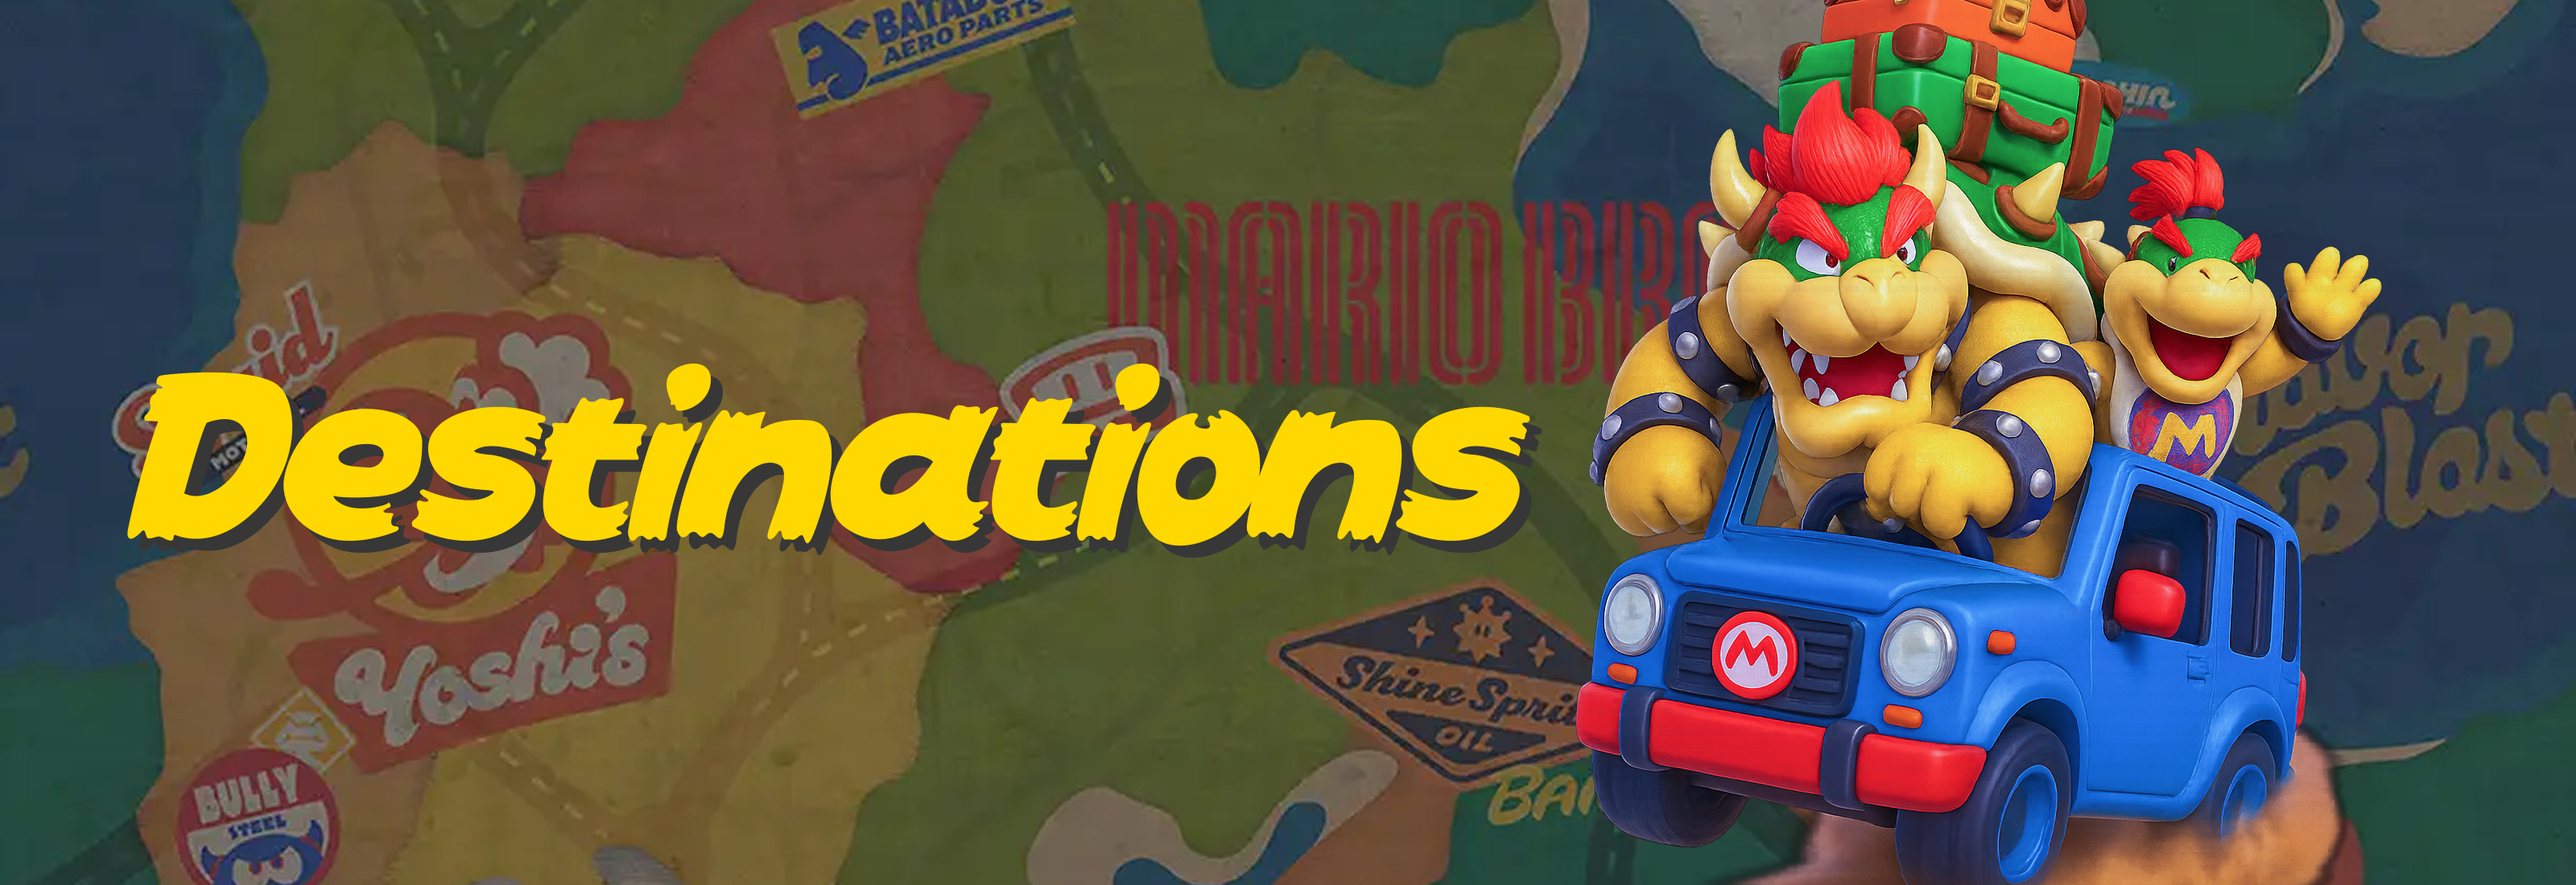
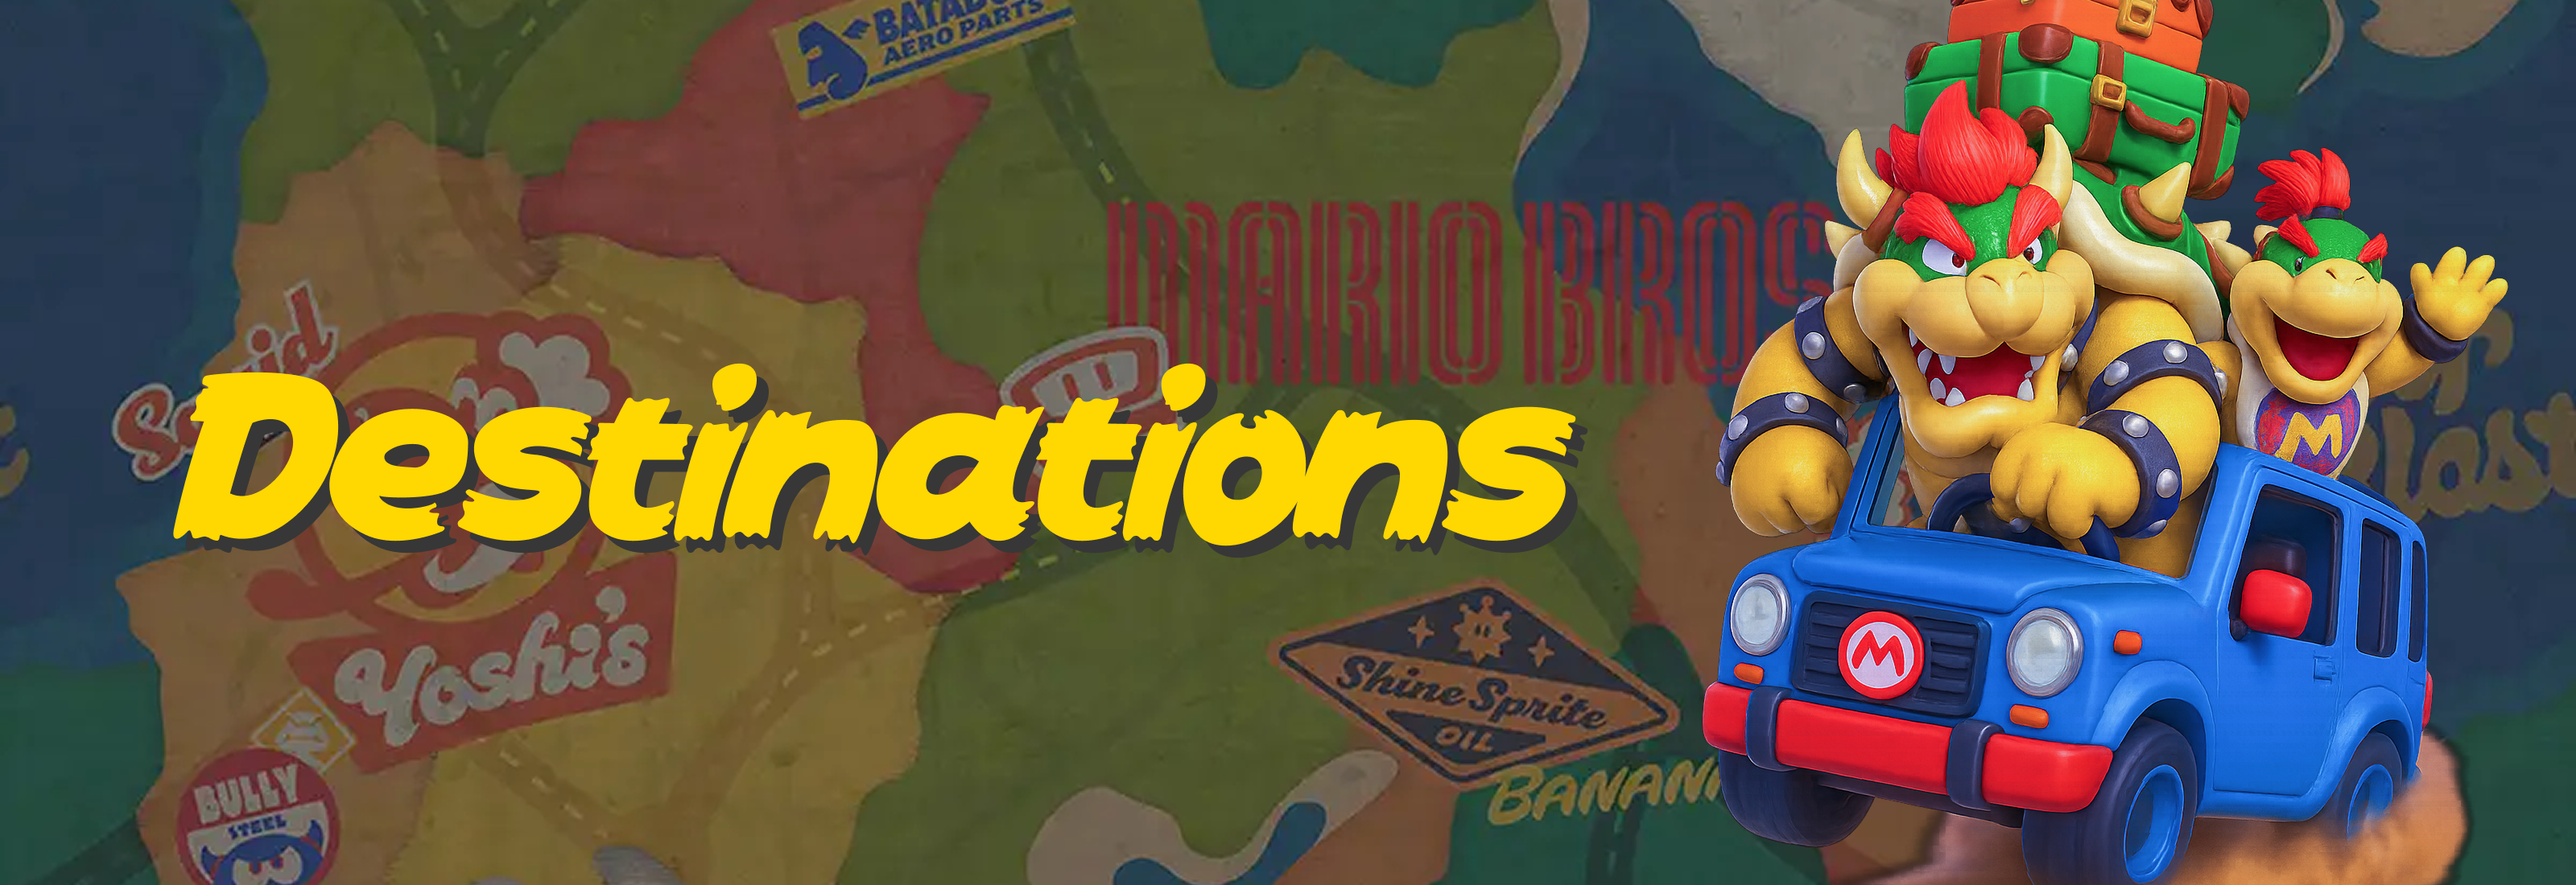
Add journey detail pages with title overlay
- Create journey detail page structure with [slug] routing
- Add JourneyDetailClient component based on DestinationDetailClient
- Display journey name and route as text overlay on title image
- Position text on left side with large fonts (96px title, 48px route)
- Add white drop shadow for better readability
- Include back button to return to journeys list
- Update page title images for journeys and destinations

🤖 Generated with [Claude Code](https://claude.com/claude-code)

diff --git a/app/journeys/[slug]/JourneyDetailClient.tsx b/app/journeys/[slug]/JourneyDetailClient.tsx
@@ -1,0 +1,222 @@
+'use client'
+
+import Link from 'next/link'
+import { useState } from 'react'
+import Box from '@mui/material/Box'
+import { Calendar, Train, ArrowLeft, MapPin } from 'lucide-react'
+import dynamic from 'next/dynamic'
+import Footer from 'src/components/Footer'
+import NavigationMenu from 'src/components/NavigationMenu'
+
+// Dynamically import the map component to avoid SSR issues
+const InteractiveMap = dynamic(() => import('src/components/InteractiveMap'), {
+  ssr: false,
+  loading: () => (
+    <div className="w-full h-[600px] rounded-lg bg-gray-200 flex items-center justify-center">
+      <p className="text-gray-600">Loading map...</p>
+    </div>
+  )
+})
+
+interface Journey {
+  name: string
+  slug: string
+  places: number
+  description: string
+  route: string
+  duration: string
+}
+
+interface JourneyDetailClientProps {
+  journey: Journey | undefined
+}
+
+export default function JourneyDetailClient({ journey }: JourneyDetailClientProps) {
+  const [isMenuOpen, setIsMenuOpen] = useState(false)
+  const [isMenuButtonVisible, setIsMenuButtonVisible] = useState(true)
+  const [isDrawerAnimating, setIsDrawerAnimating] = useState(false)
+  const [isMenuButtonAnimating, setIsMenuButtonAnimating] = useState(false)
+  const [currentImageIndex, setCurrentImageIndex] = useState(0)
+
+  const openMenu = () => {
+    setIsMenuButtonAnimating(true)
+    setTimeout(() => {
+      setIsMenuButtonVisible(false)
+      setIsMenuOpen(true)
+      setTimeout(() => {
+        setIsDrawerAnimating(false)
+      }, 50)
+    }, 150)
+  }
+
+  const closeMenu = () => {
+    setIsDrawerAnimating(true)
+    setTimeout(() => {
+      setIsMenuOpen(false)
+      setTimeout(() => {
+        setIsMenuButtonVisible(true)
+        setIsMenuButtonAnimating(true)
+        setTimeout(() => {
+          setIsMenuButtonAnimating(false)
+        }, 50)
+      }, 50)
+    }, 150)
+  }
+
+  if (!journey) {
+    return (
+      <div className="min-h-screen bg-gray-50 flex items-center justify-center">
+        <div className="text-center">
+          <h1 className="text-2xl font-bold text-gray-900 mb-4">Journey Not Found</h1>
+          <Link href="/journeys" className="text-blue-600 hover:text-blue-800">
+            Back to Journeys
+          </Link>
+        </div>
+      </div>
+    )
+  }
+
+  return (
+    <Box
+      className="min-h-screen"
+      sx={{
+        backgroundImage: 'url(/images/destinations/destination_page_list_background_shade.webp), url(/images/destinations/destination_page_list_background.webp)',
+        backgroundRepeat: 'repeat-y, repeat',
+        backgroundSize: '100% auto, 400px auto',
+      }}
+    >
+      <NavigationMenu
+        isMenuOpen={isMenuOpen}
+        isMenuButtonVisible={isMenuButtonVisible}
+        isDrawerAnimating={isDrawerAnimating}
+        isMenuButtonAnimating={isMenuButtonAnimating}
+        openMenu={openMenu}
+        closeMenu={closeMenu}
+      />
+
+      {/* Journey Details Page Title - Full Width with Text Overlay */}
+      <Box sx={{ position: 'relative', width: '100%' }}>
+        <img
+          src="/images/journey/journey_details_page_title.png"
+          alt="Journey Details"
+          className="w-full h-auto object-cover"
+        />
+
+        {/* Title and Route Overlay */}
+        <Box
+          sx={{
+            position: 'absolute',
+            top: '50%',
+            left: '15%',
+            transform: 'translateY(-50%)',
+            display: 'flex',
+            flexDirection: 'column',
+            gap: '0.5rem'
+          }}
+        >
+          <Box
+            component="h1"
+            sx={{
+              fontFamily: 'MarioFontTitle, sans-serif',
+              fontSize: '96px',
+              color: '#373737',
+              margin: 0,
+              textAlign: 'left',
+              textShadow: '4px 4px 0px rgba(246, 246, 246, 1)'
+            }}
+          >
+            {journey.name}
+          </Box>
+          <Box
+            component="p"
+            sx={{
+              fontFamily: 'MarioFontTitle, sans-serif',
+              fontSize: '48px',
+              color: '#373737',
+              margin: 0,
+              textAlign: 'left',
+              textShadow: '4px 4px 0px rgba(246, 246, 246, 1)'
+            }}
+          >
+            {journey.route}
+          </Box>
+        </Box>
+      </Box>
+
+      {/* Back Button */}
+      <Box
+        component={Link}
+        href="/journeys"
+        className="fixed top-8 left-4 z-50 p-2 hover:scale-105 transition-all duration-150"
+      >
+        <Box
+          component="img"
+          src="/images/buttons/back_button.png"
+          alt="Back to Journeys"
+          className="w-16 h-16"
+        />
+      </Box>
+
+      {/* Content */}
+      <div className="pt-8">
+        <div className="max-w-7xl mx-auto px-4 sm:px-6 lg:px-8">
+          {/* Description */}
+          {journey.description && (
+            <Box sx={{ width: '100%', maxWidth: '800px', margin: '3rem auto' }}>
+              <Box sx={{ textAlign: 'center', maxWidth: '600px', margin: '0 auto' }}>
+                <Box
+                  component="div"
+                  sx={{
+                    fontFamily: 'MarioFontTitle, sans-serif',
+                    fontSize: '24px',
+                    color: '#373737',
+                    whiteSpace: 'pre-line',
+                    lineHeight: '1.6'
+                  }}
+                >
+                  {journey.description}
+                </Box>
+              </Box>
+            </Box>
+          )}
+
+          {/* Journey Info */}
+          <Box sx={{ maxWidth: '800px', margin: '4rem auto' }}>
+            <Box
+              sx={{
+                backgroundImage: 'url(/images/destinations/destination_page_map_box_background.webp)',
+                backgroundRepeat: 'repeat',
+                backgroundSize: '200px auto',
+                padding: '2rem',
+                borderRadius: '1.5rem'
+              }}
+            >
+              <Box sx={{ display: 'flex', justifyContent: 'center', gap: '3rem', flexWrap: 'wrap' }}>
+                <Box sx={{ display: 'flex', alignItems: 'center', gap: '0.5rem' }}>
+                  <Train style={{ color: '#F6F6F6' }} size={24} />
+                  <Box component="span" sx={{ fontFamily: 'MarioFont, sans-serif', fontSize: '20px', color: '#F6F6F6' }}>
+                    {journey.route}
+                  </Box>
+                </Box>
+                <Box sx={{ display: 'flex', alignItems: 'center', gap: '0.5rem' }}>
+                  <Calendar style={{ color: '#F6F6F6' }} size={24} />
+                  <Box component="span" sx={{ fontFamily: 'MarioFont, sans-serif', fontSize: '20px', color: '#F6F6F6' }}>
+                    {journey.duration}
+                  </Box>
+                </Box>
+                <Box sx={{ display: 'flex', alignItems: 'center', gap: '0.5rem' }}>
+                  <MapPin style={{ color: '#F6F6F6' }} size={24} />
+                  <Box component="span" sx={{ fontFamily: 'MarioFont, sans-serif', fontSize: '20px', color: '#F6F6F6' }}>
+                    {journey.places} places
+                  </Box>
+                </Box>
+              </Box>
+            </Box>
+          </Box>
+        </div>
+
+        <Footer />
+      </div>
+    </Box>
+  )
+}

diff --git a/app/journeys/[slug]/page.tsx b/app/journeys/[slug]/page.tsx
@@ -1,0 +1,79 @@
+import JourneyDetailClient from './JourneyDetailClient'
+
+const trips = [
+  {
+    name: "California Zephyr",
+    slug: "california-zephyr",
+    places: 17,
+    description: "Cross-country journey from Chicago to San Francisco through the Rocky Mountains and Sierra Nevada, featuring some of America's most spectacular scenery.",
+    route: "Chicago, IL → San Francisco, CA",
+    duration: "3 days, 2 nights"
+  },
+  {
+    name: "Empire Builder",
+    slug: "empire-builder",
+    places: 16,
+    description: "Northern route from Chicago to Seattle and Portland through the Great Plains, Rocky Mountains, and Cascade Range.",
+    route: "Chicago, IL → Seattle, WA / Portland, OR",
+    duration: "2 days, 1 night"
+  },
+  {
+    name: "Southwest Chief",
+    slug: "southwest-chief",
+    places: 13,
+    description: "Journey through the American Southwest from Chicago to Los Angeles, passing through Kansas, Colorado, New Mexico, and Arizona.",
+    route: "Chicago, IL → Los Angeles, CA",
+    duration: "2 days, 1 night"
+  },
+  {
+    name: "Texas Eagle",
+    slug: "texas-eagle",
+    places: 12,
+    description: "Route through the heart of America from Chicago through Texas to San Antonio, with connections to Los Angeles.",
+    route: "Chicago, IL → San Antonio, TX",
+    duration: "2 days, 1 night"
+  },
+  {
+    name: "Crescent",
+    slug: "crescent",
+    places: 11,
+    description: "Southern route connecting New York City to New Orleans through the Carolinas, Georgia, Alabama, and Mississippi.",
+    route: "New York, NY → New Orleans, LA",
+    duration: "1 day, 1 night"
+  },
+  {
+    name: "Coast Starlight",
+    slug: "coast-starlight",
+    places: 8,
+    description: "Pacific Coast route from Seattle to Los Angeles with stunning ocean and mountain views.",
+    route: "Seattle, WA → Los Angeles, CA",
+    duration: "1 day, 1 night"
+  },
+  {
+    name: "Northeast Regional",
+    slug: "northeast-regional",
+    places: 15,
+    description: "High-frequency service along the Northeast Corridor connecting major East Coast cities.",
+    route: "Boston, MA → Washington, DC",
+    duration: "Multiple daily departures"
+  },
+  {
+    name: "Regional & Local Services",
+    slug: "regional-local",
+    places: 45,
+    description: "Collection of regional Amtrak services, commuter rail, and local transit systems across various states.",
+    route: "Various routes",
+    duration: "Various schedules"
+  }
+]
+
+export async function generateStaticParams() {
+  return trips.map((trip) => ({
+    slug: trip.slug,
+  }))
+}
+
+export default function JourneyDetailPage({ params }: { params: { slug: string } }) {
+  const journey = trips.find(t => t.slug === params.slug)
+  return <JourneyDetailClient journey={journey} />
+}
